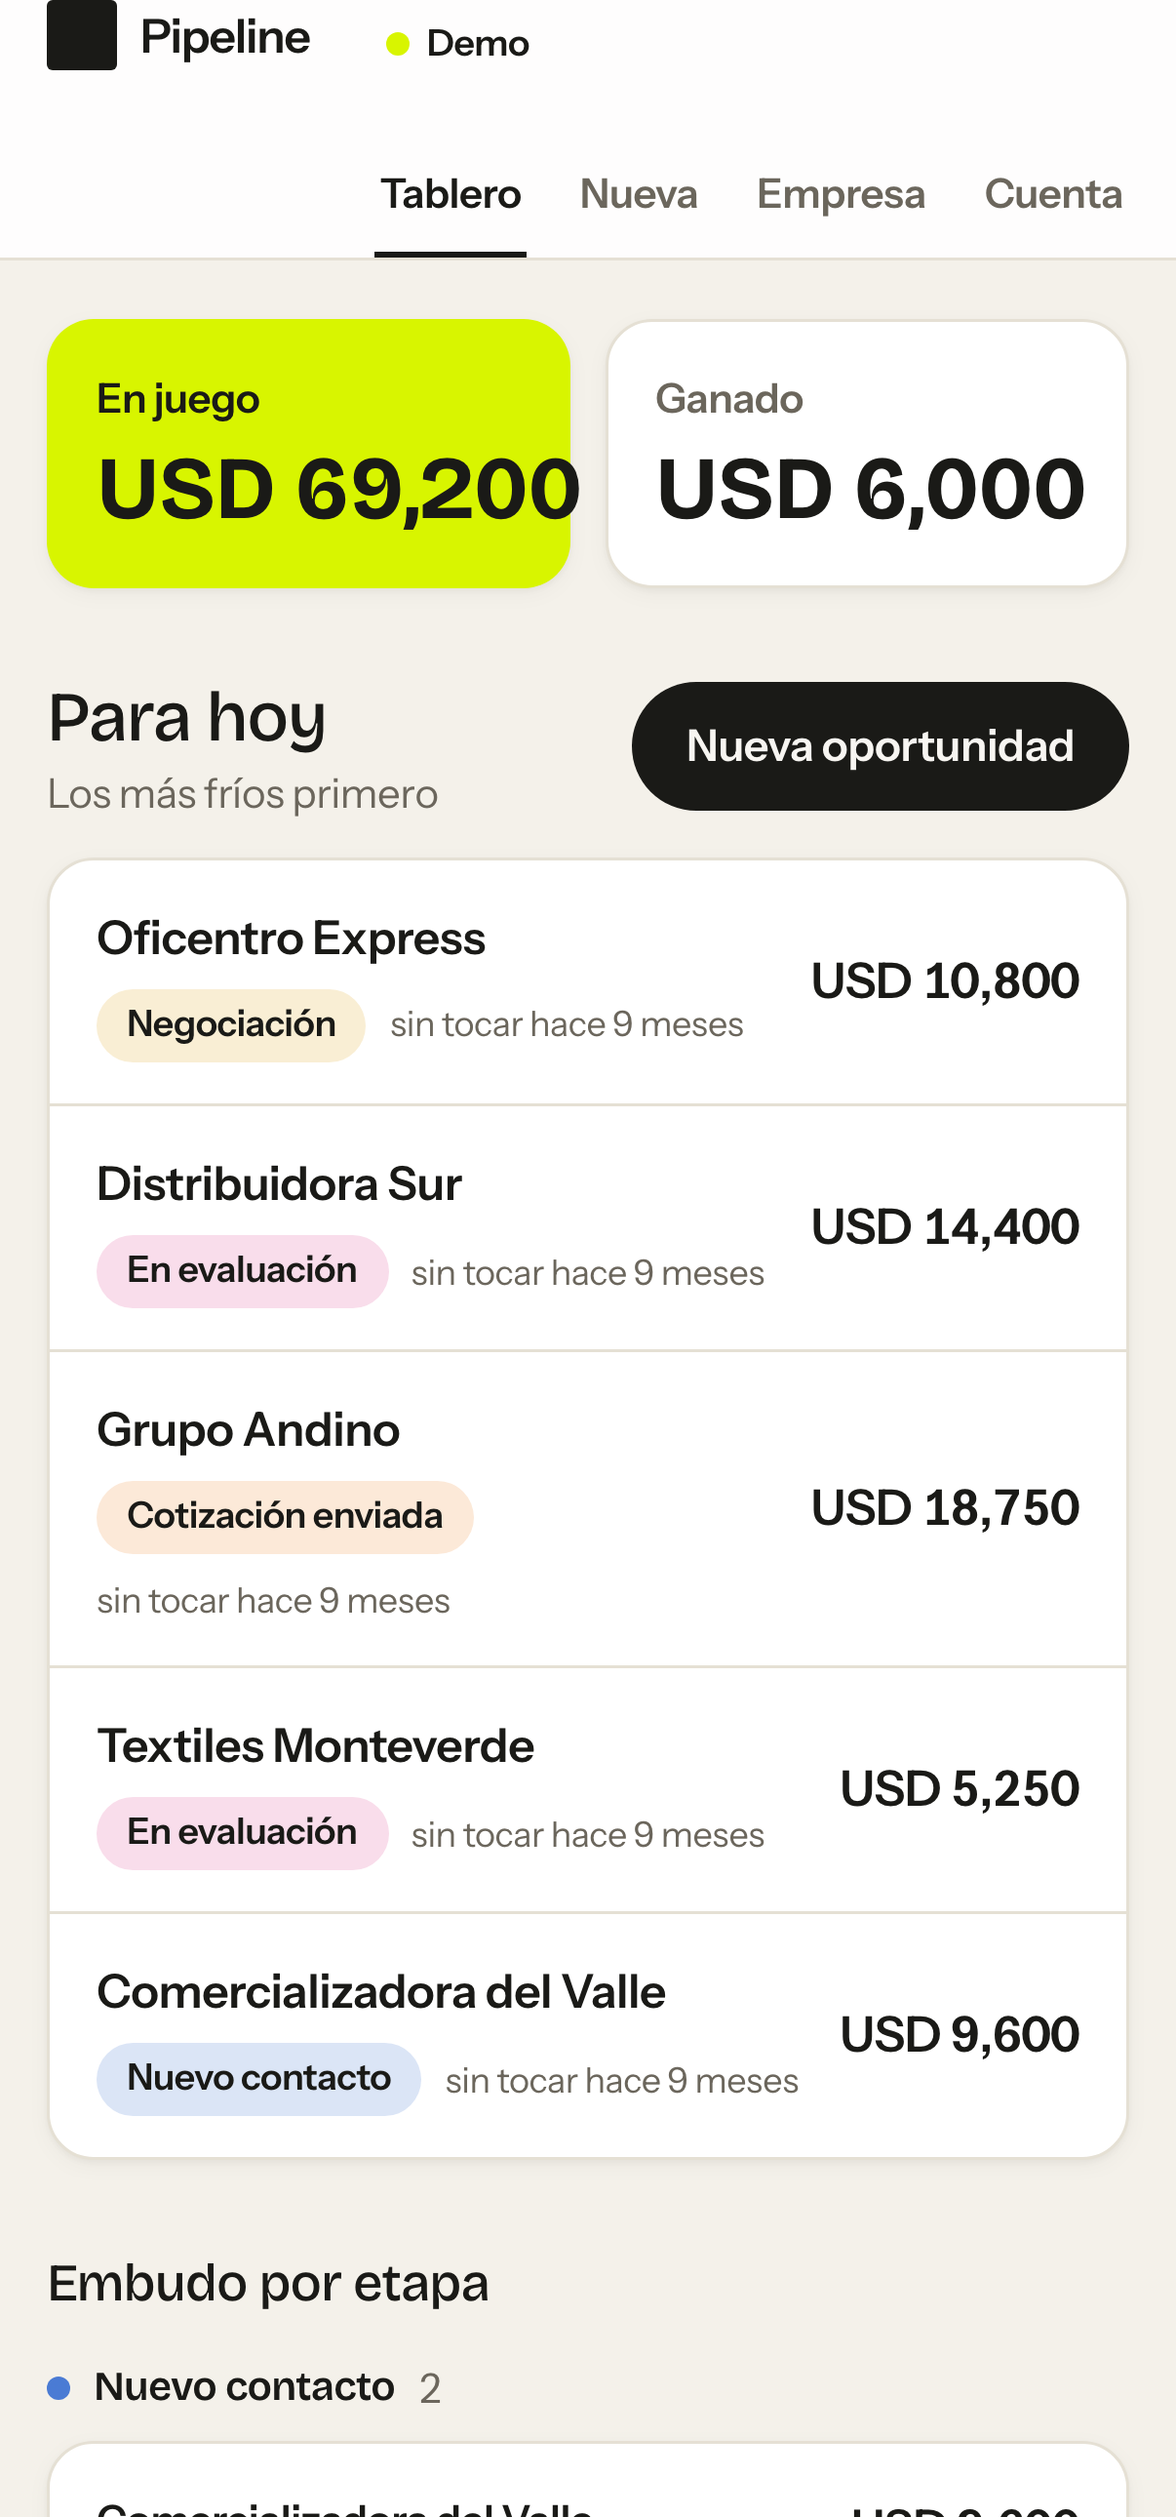
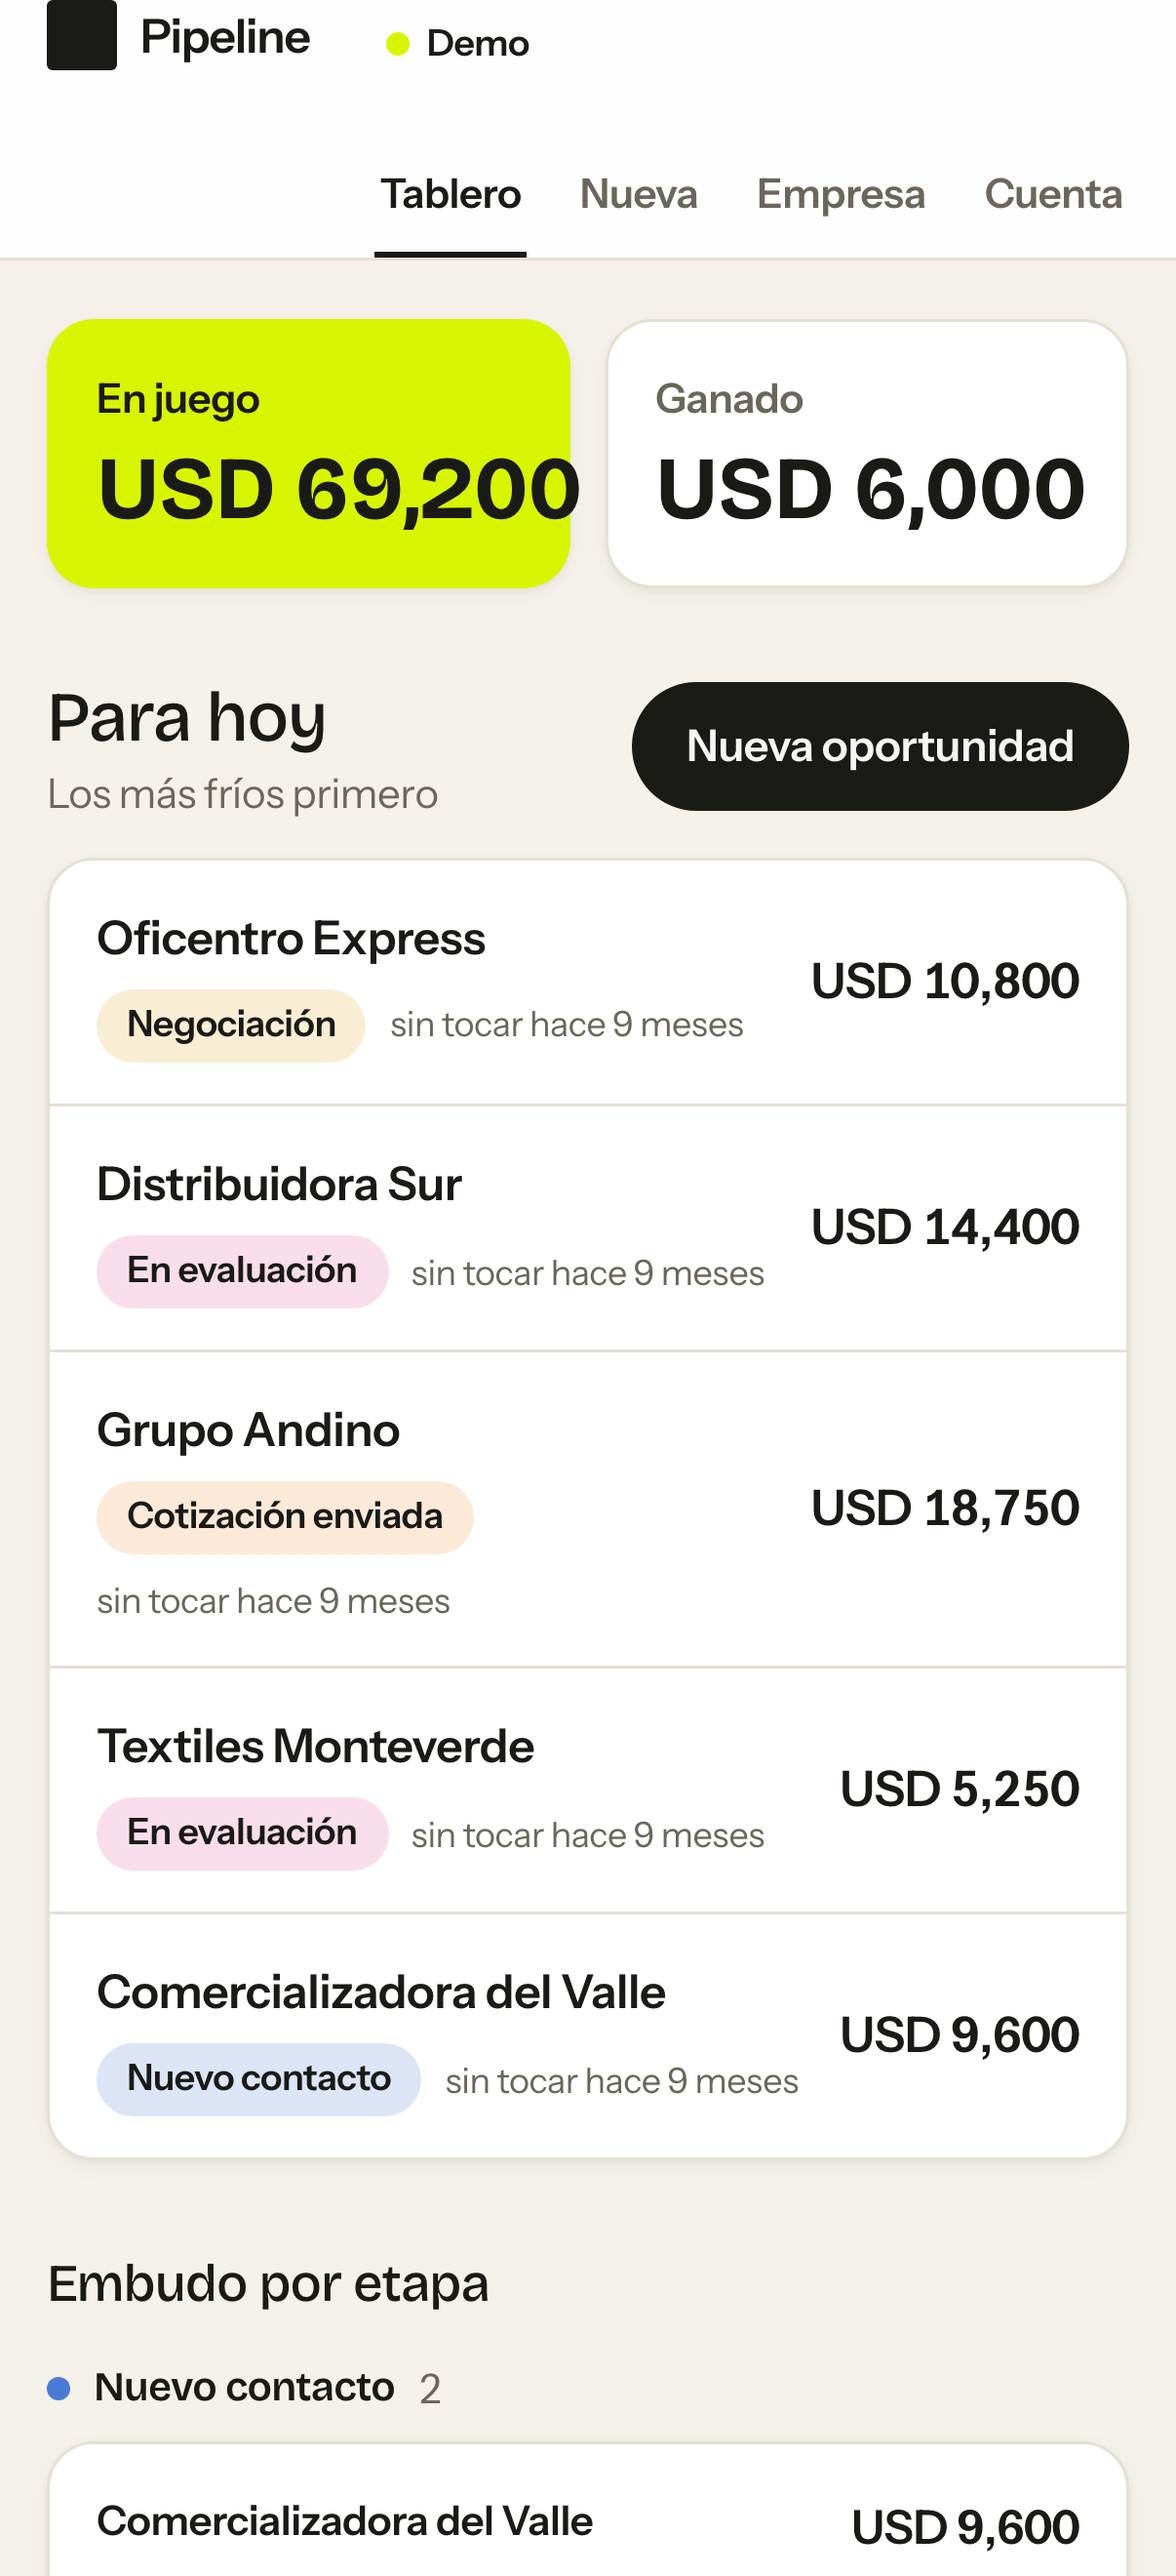
docs: drop WIP + Supabase, add live-demo button, refresh screenshots

diff --git a/README.md b/README.md
@@ -7,9 +7,12 @@
 [![React 19](https://img.shields.io/badge/React-19-61DAFB?logo=react&logoColor=white&style=flat-square)](https://react.dev)
 [![TypeScript](https://img.shields.io/badge/TypeScript-strict-3178C6?logo=typescript&logoColor=white&style=flat-square)](https://www.typescriptlang.org)
 [![Vite](https://img.shields.io/badge/Vite-646CFF?logo=vite&logoColor=white&style=flat-square)](https://vite.dev)
-[![Supabase](https://img.shields.io/badge/Supabase-3FCF8E?logo=supabase&logoColor=white&style=flat-square)](https://supabase.com)
 [![Tested](https://img.shields.io/badge/tested-Vitest_%2B_Playwright-729B1B?logo=playwright&logoColor=white&style=flat-square)](#architecture)
-[![status: WIP](https://img.shields.io/badge/status-work_in_progress-orange?style=flat-square)](#status)
+[![License: MIT](https://img.shields.io/badge/license-MIT-green?style=flat-square)](LICENSE)
+
+### [▶  Try the live demo](https://diego-salomon.github.io/pipeline/)
+
+<sub>Runs in your browser, no sign-up. At the demo gate, enter the password <code>demo</code>.</sub>
 
 <br>
 
@@ -17,16 +20,11 @@
 
 </div>
 
-> **Status.** Work in progress. The demo runs end to end; I'm still refining the Supabase live mode and the design. Expect changes.
-
 ---
 
 ## What it does
 
-A sales CRM you run from your phone. It keeps every lead on one board: how much money is in play, how much is won, which leads have gone cold, and where each one sits in the funnel. The same code runs two ways, chosen by one env variable:
-
-- **Demo mode** (default): everything in the browser on `localStorage`, with seeded example data. For sales demos and portfolio use. No backend, no sign-up.
-- **Live mode**: a real [Supabase](https://supabase.com) backend (Postgres, Auth, RLS), multi-tenant so one deployment can serve many clients.
+A sales CRM you run from your phone. It keeps every lead on one board: how much money is in play, how much is won, which leads have gone cold, and where each one sits in the funnel. Add a lead, move it a stage at a time, and the totals update as you go. Pre-seeded with example data so you can click around right away.
 
 Neutral Latin-American Spanish out of the box. Mobile-first, light and dark, WCAG AA.
 
@@ -66,18 +64,7 @@ pnpm install
 pnpm dev
 ```
 
-Open the app, and when the demo gate appears sign in with the password `demo` (this is **not** real security, it just hides the demo). The board loads with example leads.
-
-## Run modes
-
-Copy `.env.example` to `.env` and set `VITE_MODE`:
-
-| Variable | Default | Meaning |
-| --- | --- | --- |
-| `VITE_MODE` | `demo` | `demo` = localStorage, `live` = Supabase |
-| `VITE_DEMO_PASSWORD` | `demo` | Demo gate password (demo mode) |
-| `VITE_SUPABASE_URL` | — | Supabase project URL (live mode) |
-| `VITE_SUPABASE_ANON_KEY` | — | Supabase anon key (live mode) |
+Open the app and sign in at the demo gate with the password `demo` (this is not real security, it just hides the demo). The board loads with example leads.
 
 ## Architecture
 
@@ -86,11 +73,11 @@ Clean, layered, dependencies point inward:
 ```
 src/domain/          Pure, framework-free, fully unit-tested (stages, history, validation, lead ops)
 src/application/     Use cases (LeadService) behind ONE repository port
-src/infrastructure/  Adapters: localStorage, Supabase, in-memory; clock, id, seed
+src/infrastructure/  Adapters: in-browser storage, in-memory; clock, id, seed
 src/ui/              React 19 + React Router 7 screens, design system, auth
 ```
 
-The backend seam is a single port, [`LeadRepository`](src/application/ports.ts), with two implementations wired in [`src/main.tsx`](src/main.tsx) by `VITE_MODE`. The port is `Promise`-based (`list/get/save/remove/resetToSeed`), so the same UI drives both the synchronous localStorage adapter and the remote Supabase adapter.
+The backend seam is a single port, [`LeadRepository`](src/application/ports.ts). The demo runs on an in-browser storage adapter; a remote adapter can sit behind the same port without touching the domain, application, or UI code.
 
 ---
 
